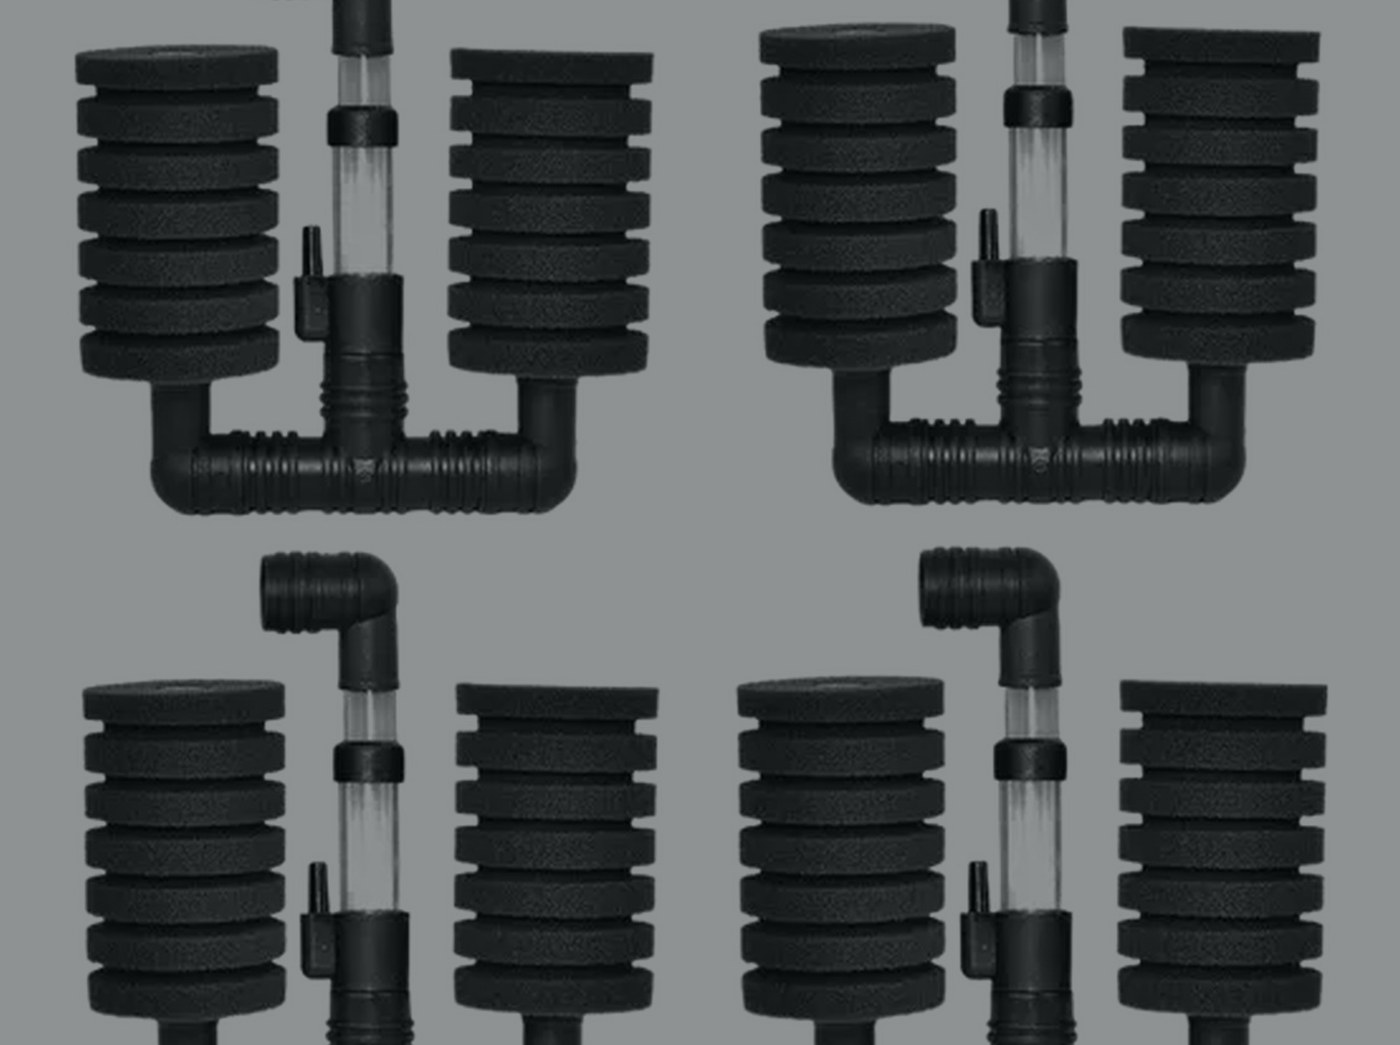
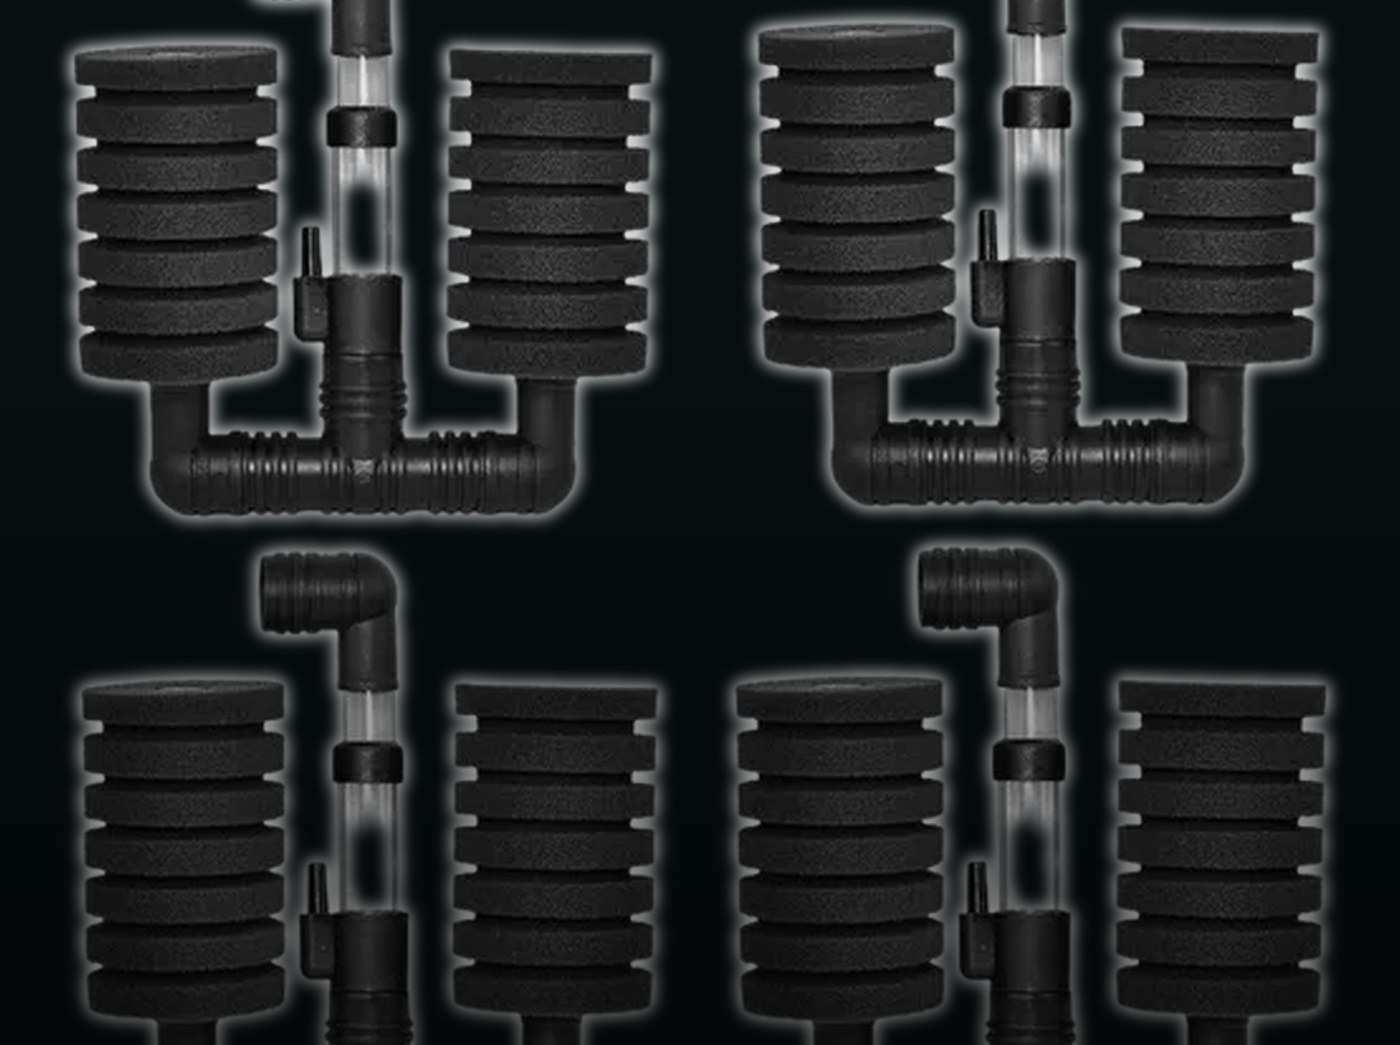
Match the Filtration tile to the other five; fix '1 products'
Caught by screenshotting the preview. The new category tile was built by
dimming a white-background product shot 45% toward the canvas colour, which
still read as a pale grey panel beside five dark photographic tiles. Rebuilt by
masking the subject and dropping the BACKGROUND to the canvas colour instead of
dimming the whole frame, then vignetting for title legibility. Mean luminance
is now 34.5 against 23-34 for the others, where it was well outside the set.

Also: Hardscape rendered '1 products'.

diff --git a/app/page.tsx b/app/page.tsx
@@ -197,7 +197,8 @@ export default async function HomePage() {
                       {c.title}
                     </h3>
                     <p className="aq-spec mt-1 text-[13px] text-[#f2a93b]">
-                      {counts[c.handle]} products
+                      {counts[c.handle]}{" "}
+                      {counts[c.handle] === 1 ? "product" : "products"}
                     </p>
                   </div>
                 </Link>
